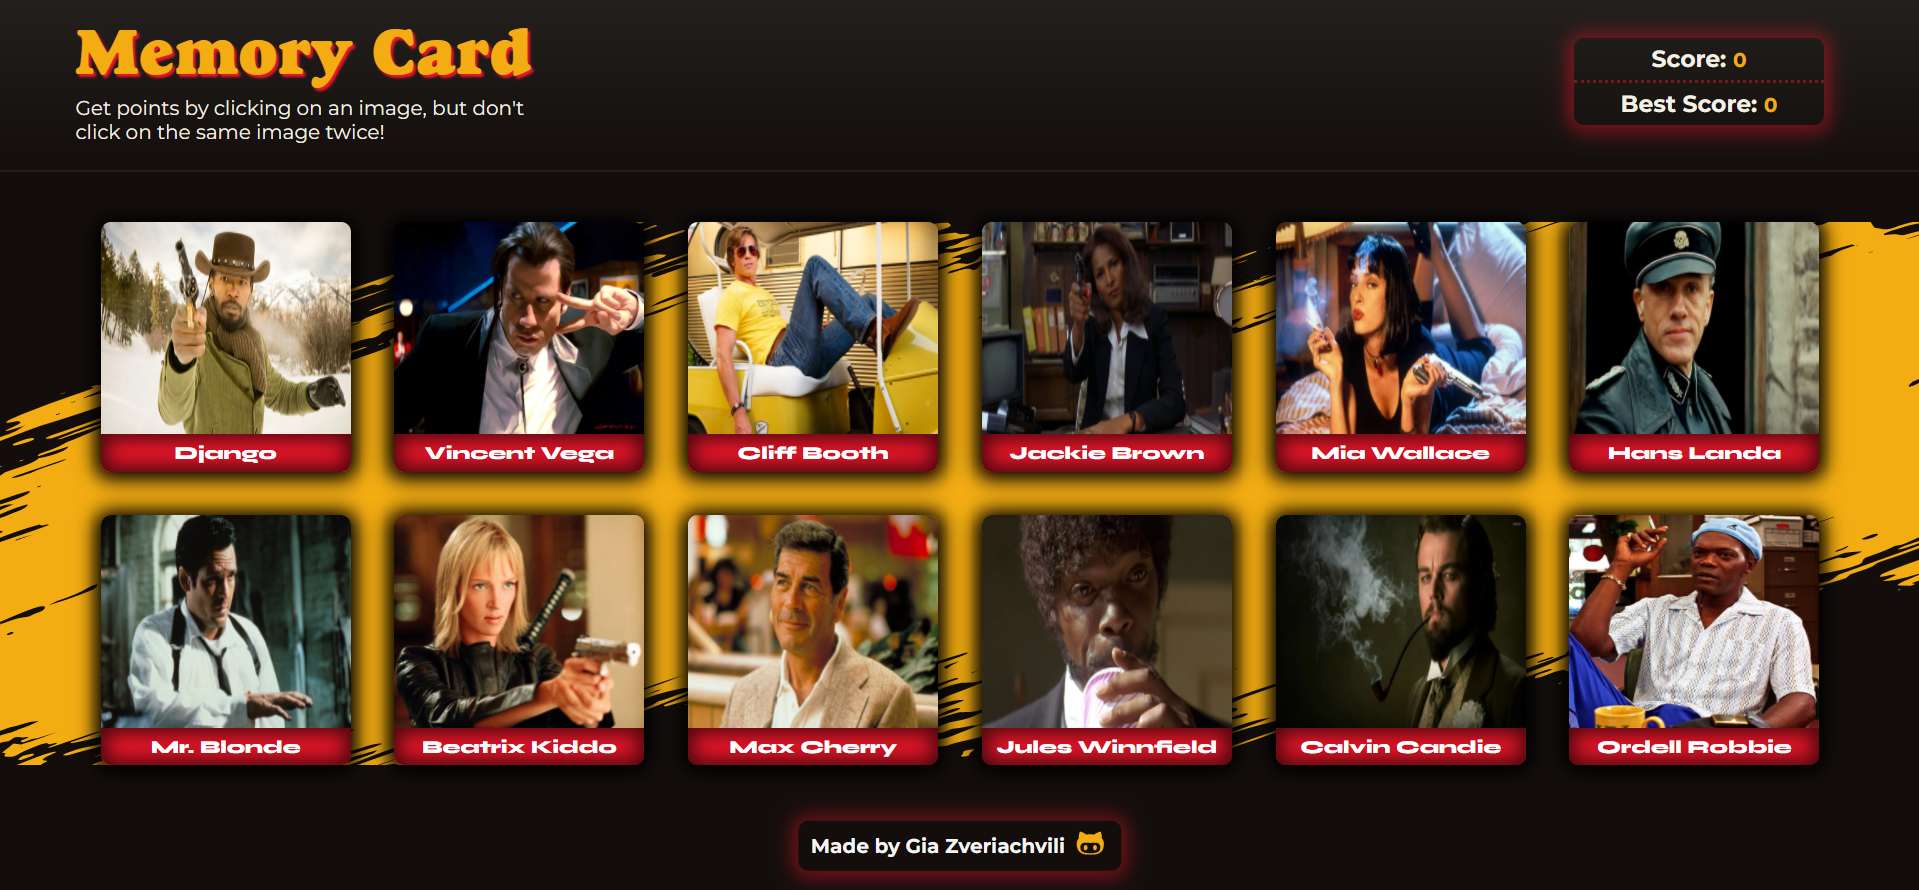
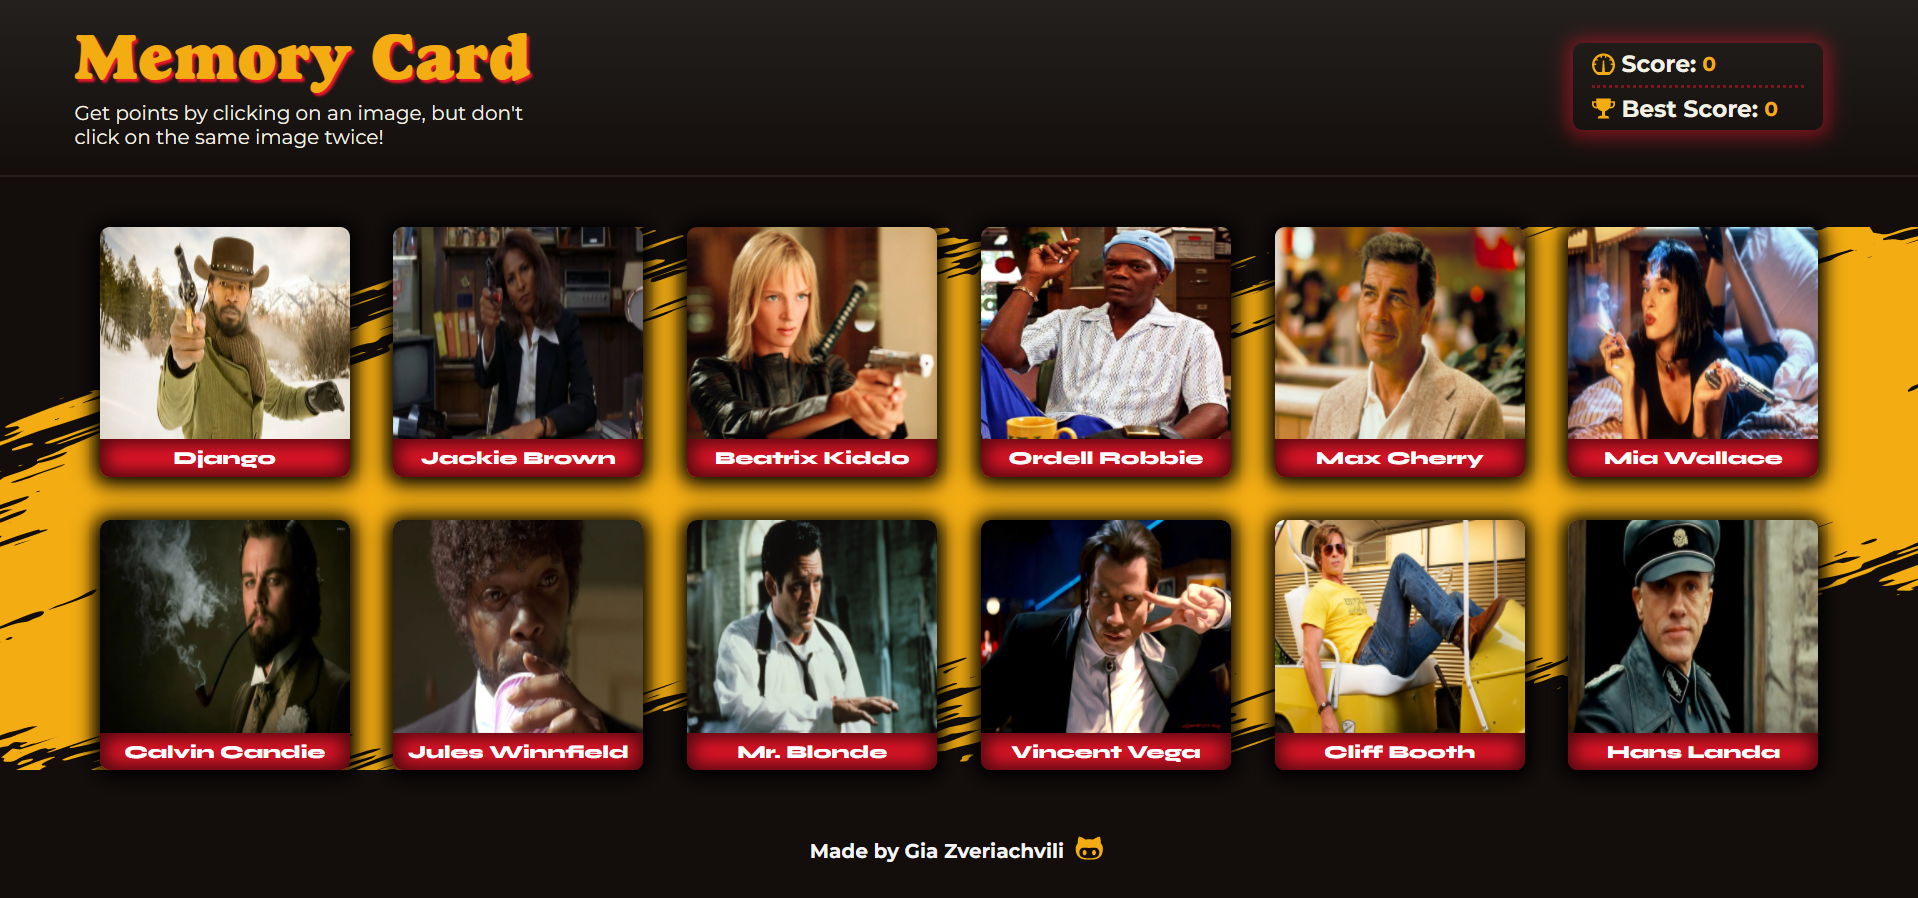
Fixed bug affecting initial card randomization

diff --git a/src/components/main/main.js b/src/components/main/main.js
@@ -15,9 +15,18 @@ import calvin from '../../assets/img/Calvin.webp';
 import ordell from '../../assets/img/Ordell.webp';
 
 const Main = () => {
-  const [arrIndex, setArrIndex] = useState([
-    0, 1, 2, 3, 4, 5, 6, 7, 8, 9, 10, 11,
-  ]);
+  const initialRandomArray = () => {
+    let arr = [];
+    while (arr.length < 12) {
+      let num = Math.floor(Math.random() * 12);
+      if (arr.indexOf(num) === -1) {
+        arr.push(num);
+      }
+    }
+    return arr;
+  };
+
+  const [arrIndex, setArrIndex] = useState(initialRandomArray());
 
   let arr = [
     [beatrix, 'Beatrix Kiddo'],
@@ -33,21 +42,6 @@ const Main = () => {
     [calvin, 'Calvin Candie'],
     [ordell, 'Ordell Robbie'],
   ];
-
-  useEffect(() => {
-    const randomizeCards = () => {
-      while (arrIndex.length < 12) {
-        let num = Math.floor(Math.random() * 12);
-        if (arrIndex.indexOf(num) === -1) {
-          setArrIndex([...arrIndex, `Entry ${arrIndex.length}`]);
-        }
-      }
-    };
-
-    return () => {
-      randomizeCards();
-    };
-  }, []);
 
   return (
     <div className='main'>

diff --git a/src/components/main/main.css b/src/components/main/main.css
@@ -3,7 +3,8 @@
 :root {
   --card-bg: #ee162a;
   --card-text: #f3f1e4;
-  --card-border-hover: #ee162a;
+  --card-border-hover: #b81626;
+  --card-border-hover-mid: #e45d49;
 }
 
 .main {
@@ -60,9 +61,21 @@
 
 .item:hover {
   cursor: pointer;
+  animation: glow 0.5s ease-in-out;
+  -webkit-box-shadow: 0px 1px 10px 8px var(--card-border-hover);
+  box-shadow: 0px 1px 10px 8px var(--card-border-hover);
+}
 
-  -webkit-box-shadow: 0px 1px 15px 5px var(--card-border-hover);
-  box-shadow: 0px 1px 15px 5px var(--card-border-hover);
+@keyframes glow {
+  0%,
+  100% {
+    -webkit-box-shadow: 0px 1px 10px 8px var(--card-border-hover);
+    box-shadow: 0px 1px 10px 8px var(--card-border-hover);
+  }
+  50% {
+    -webkit-box-shadow: 0px 1px 10px 12px var(--card-border-hover-mid);
+    box-shadow: 0px 1px 10px 12px var(--card-border-hover-mid);
+  }
 }
 
 .item .description p {

diff --git a/src/components/header/header.js b/src/components/header/header.js
@@ -7,11 +7,13 @@ const Header = () => {
       <header>
         <div className='title instruction'>
           <h1>Memory Card</h1>
+
           <p>
             Get points by clicking on an image, but don't click on the same
             image twice!
           </p>
         </div>
+
         <div className='score'>
           <h3>
             <ImMeter></ImMeter>Score: <span className='current-score'>0</span>{' '}

diff --git a/src/components/header/header.css b/src/components/header/header.css
@@ -5,6 +5,8 @@
   --header-underline: #251c188e;
 }
 
+@import url('https://fonts.googleapis.com/css?family=Red+Hat+Display:900&display=swap');
+
 @font-face {
   font-family: Goudy-Heavy;
   src: url(../../assets/fonts/goudy-heavy.otf);

diff --git a/README.md b/README.md
@@ -1,14 +1,16 @@
-# CV App made with React
+# Memory Card Game made with React
 
 The purpose of this project is to enforce my learnings on lifecycle methods, functional components, and the use of hooks in React.
 This project is part of [The Odin Project](https://www.theodinproject.com) curriculum.
+
+![Preview Image](./src/assets/img/preview.png)
 
 [Live Demo](https://www.theodinproject.com)
 
 ## How to install
 
 ```
-git clone git@github.com:gzveriachvili/cv-application.git
+git clone git@github.com:gzveriachvili/memory-card-game.git
 cd cv-application
 npm install
 npm start
